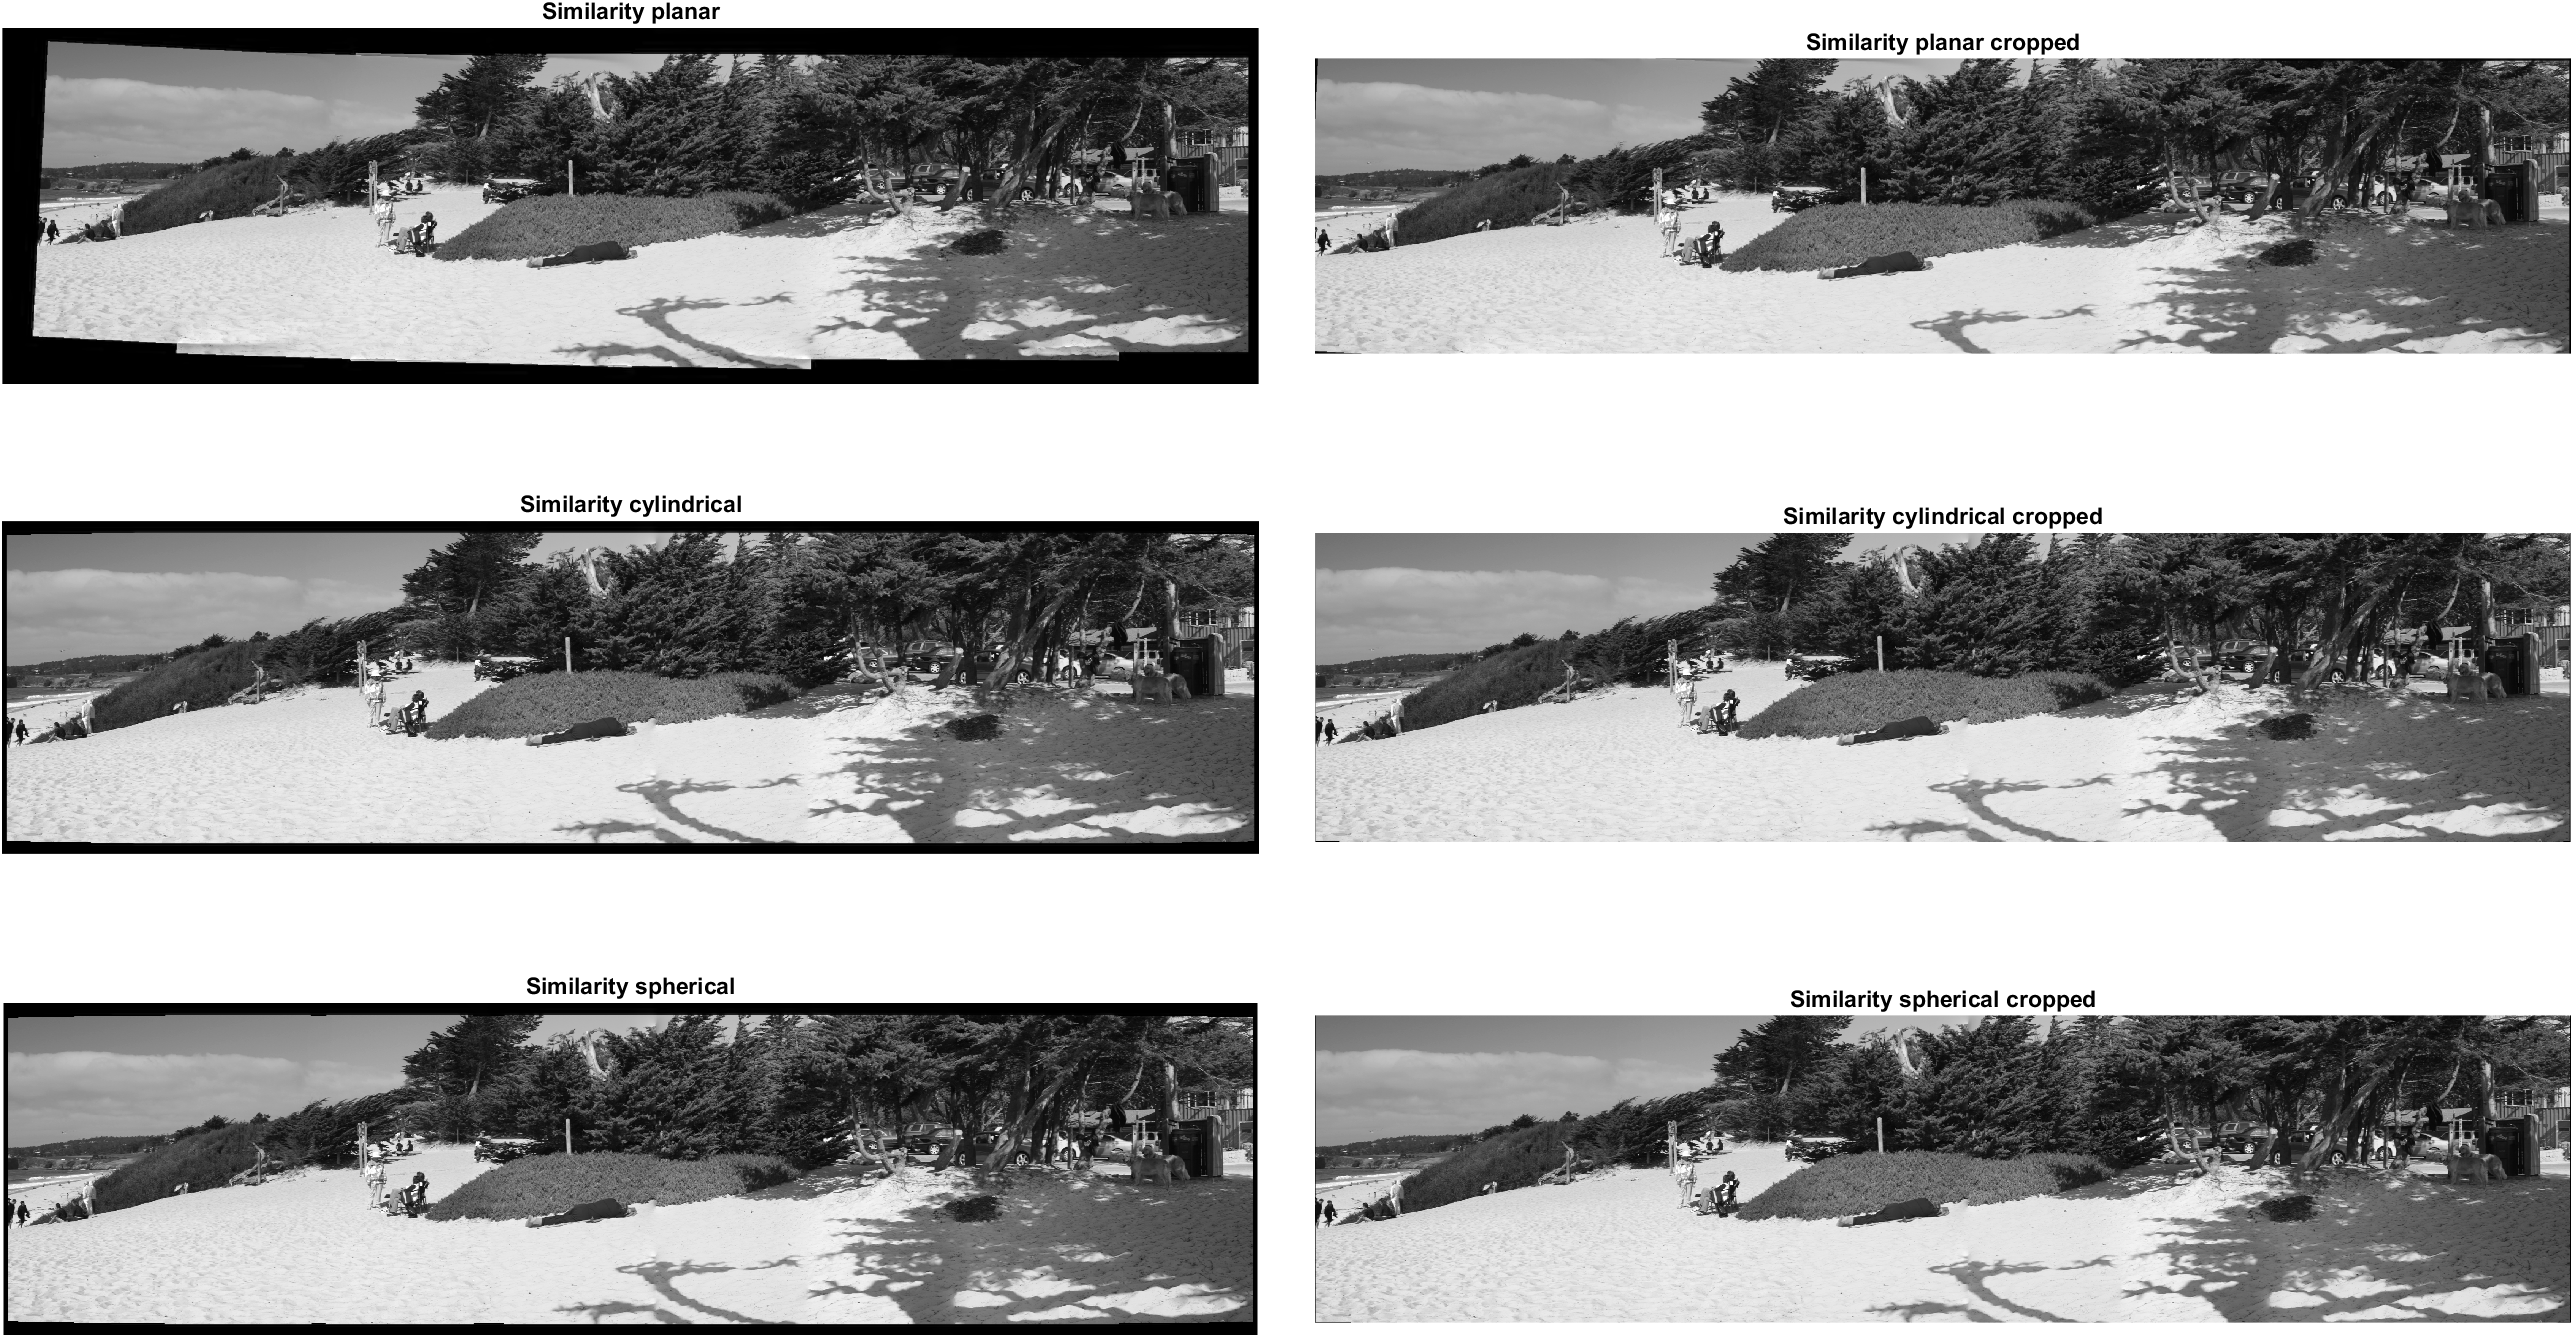
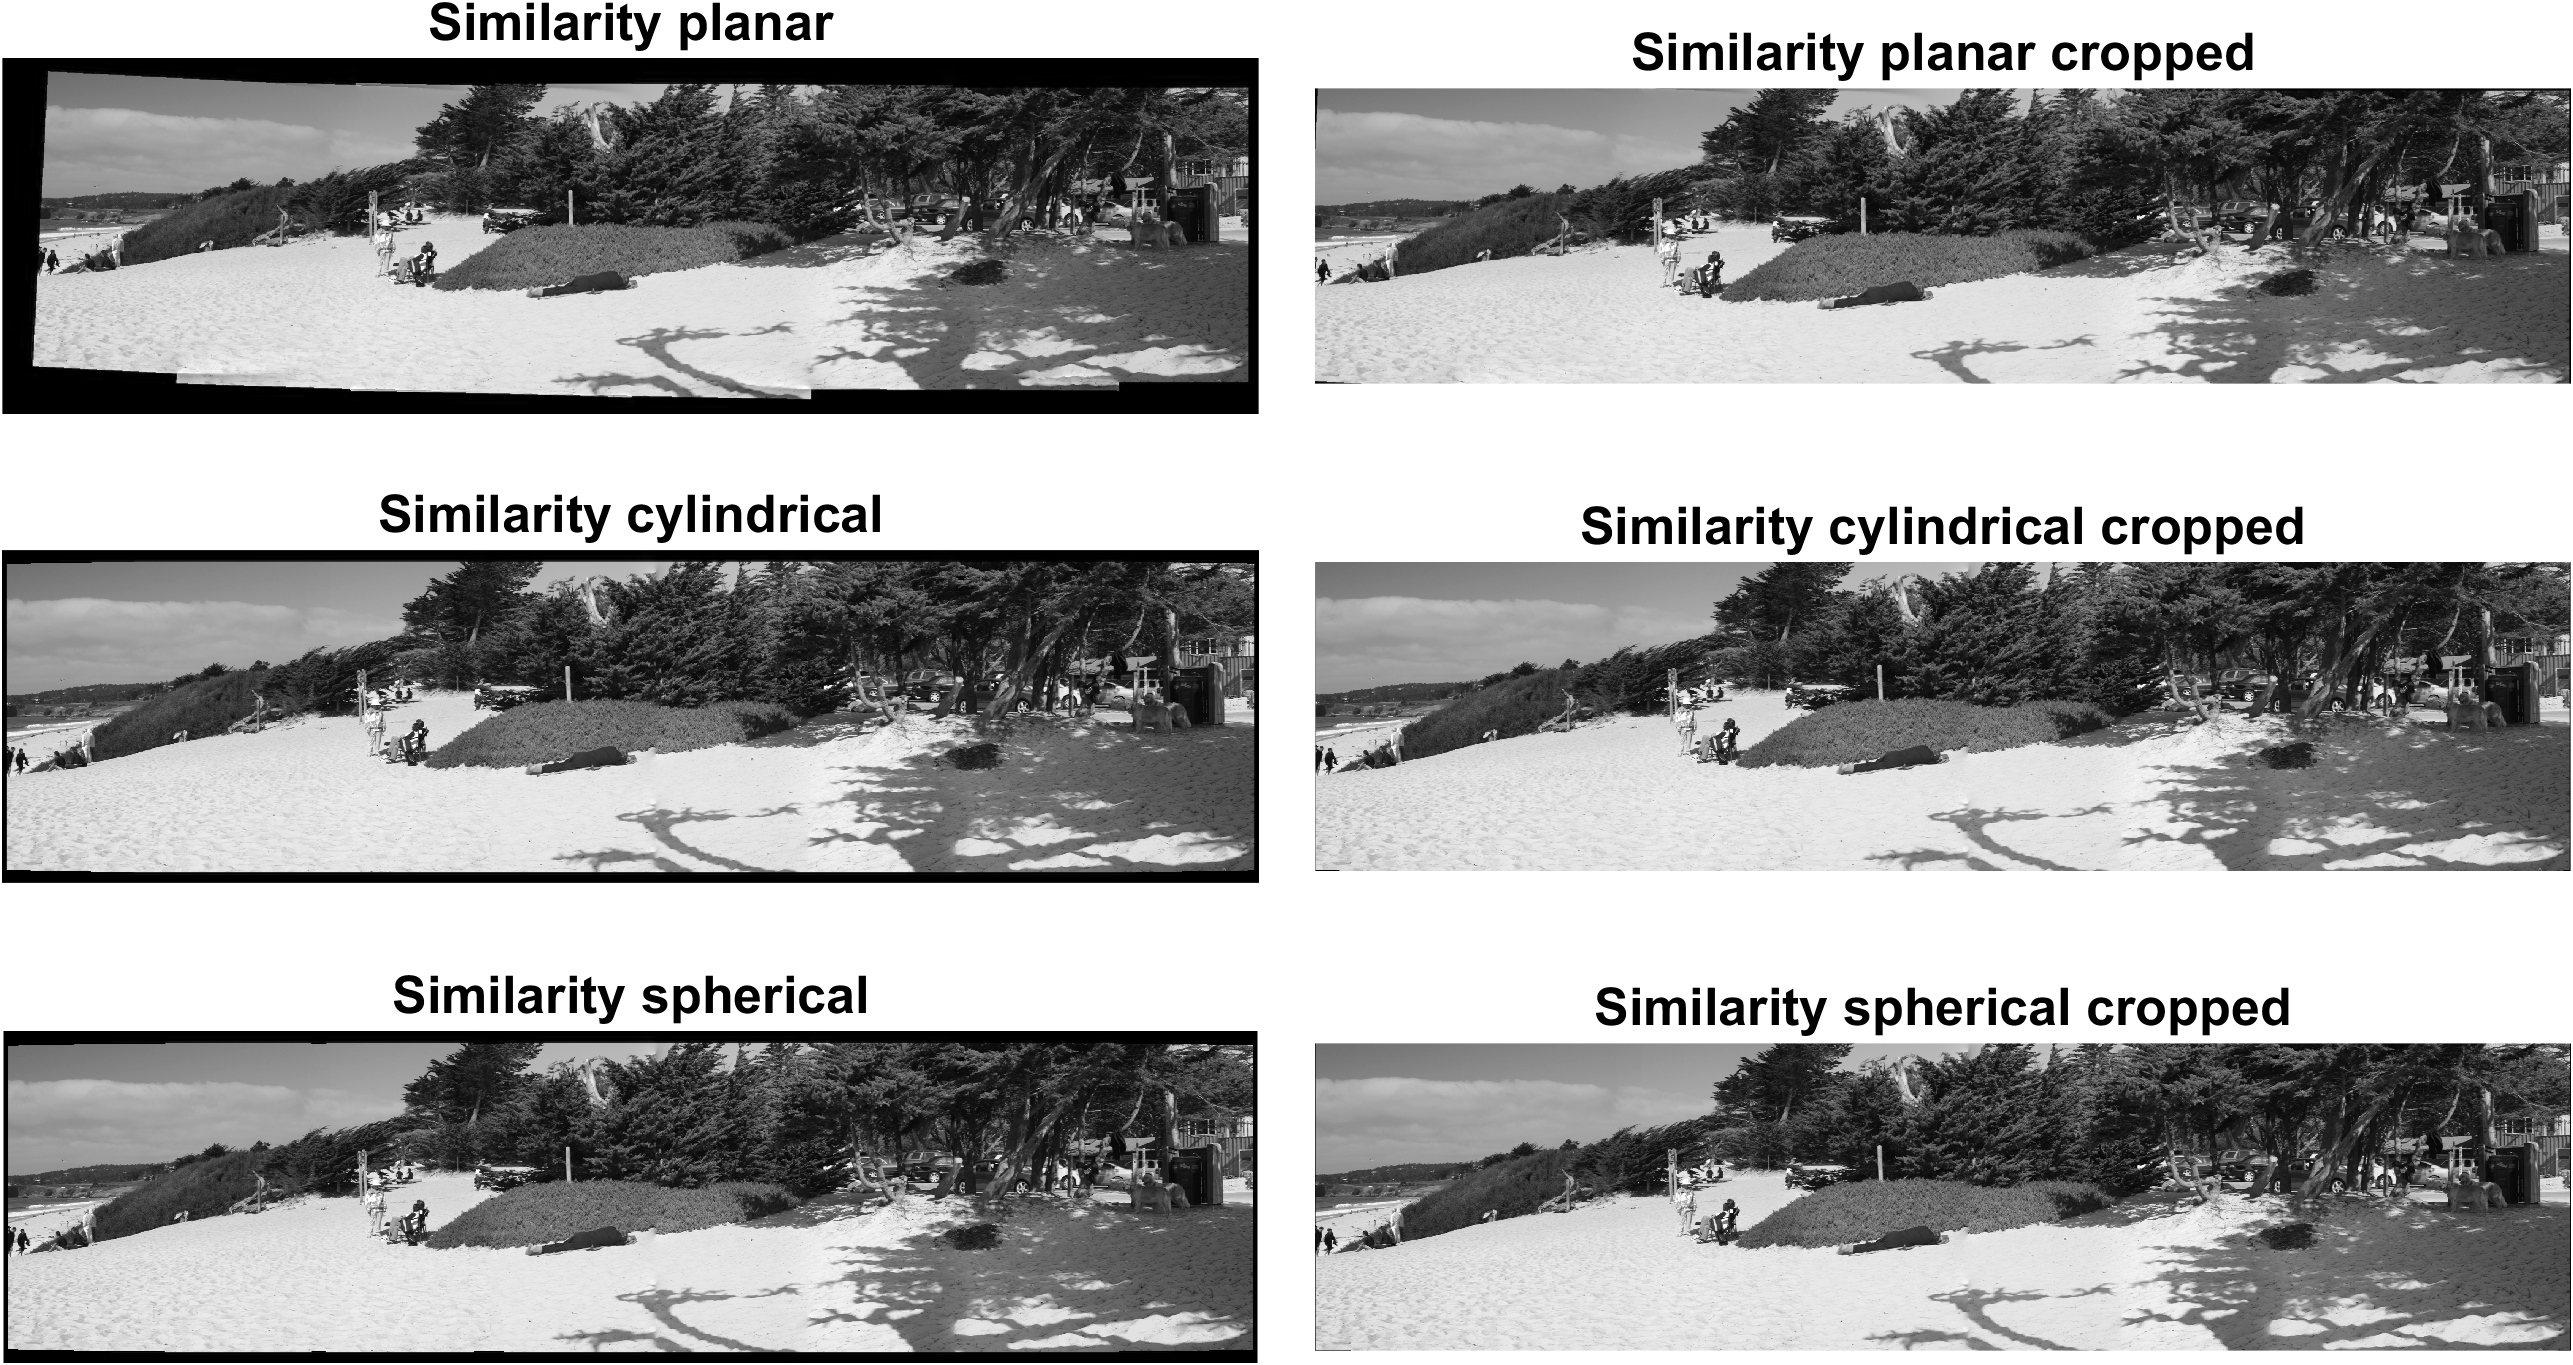
Changed the panorama images title font size.

diff --git a/main.m b/main.m
@@ -108,14 +108,14 @@ for i = 1:length(transformationtype)
     word = transformationtype{i};
     transTitle = strcat(upper(word(1)), lower(word(2:end)));
 
-    nexttile; imshow(panorama{1}); title([transTitle ' ' warpType{1}])        
-    nexttile; imshow(croppedPanorama{1}); title([transTitle ' ' warpType{1} ' ' 'cropped'])
+    nexttile; imshow(panorama{1}); title([transTitle ' ' warpType{1}], 'fontsize', 25)        
+    nexttile; imshow(croppedPanorama{1}); title([transTitle ' ' warpType{1} ' ' 'cropped'], 'fontsize', 25)
 
-    nexttile; imshow(panorama{2}); title([transTitle ' ' warpType{2}])     
-    nexttile; imshow(croppedPanorama{2}); title([transTitle ' ' warpType{2} ' ' 'cropped'])
+    nexttile; imshow(panorama{2}); title([transTitle ' ' warpType{2}], 'fontsize', 25)     
+    nexttile; imshow(croppedPanorama{2}); title([transTitle ' ' warpType{2} ' ' 'cropped'], 'fontsize', 25)
 
-    nexttile; imshow(panorama{3}); title([transTitle ' ' warpType{3}])
-    nexttile; imshow(croppedPanorama{3}); title([transTitle ' ' warpType{3} ' ' 'cropped'])
+    nexttile; imshow(panorama{3}); title([transTitle ' ' warpType{3}], 'fontsize', 25)
+    nexttile; imshow(croppedPanorama{3}); title([transTitle ' ' warpType{3} ' ' 'cropped'], 'fontsize', 25)
     
     % Export graphics
     ax = gcf;
